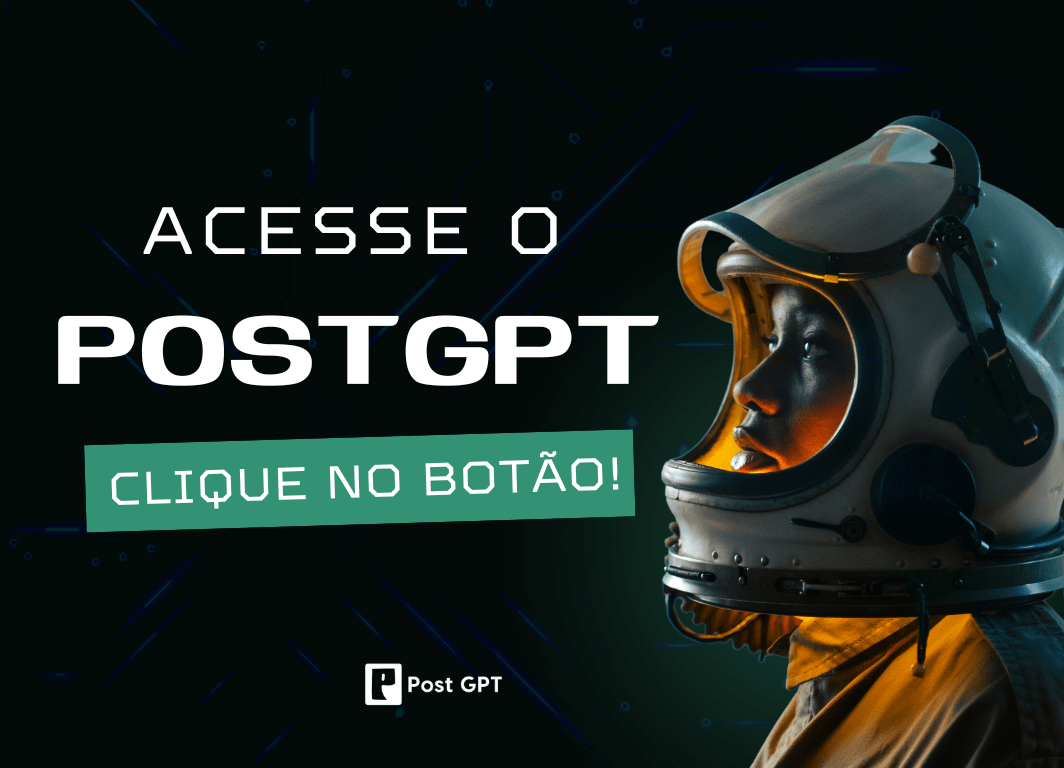
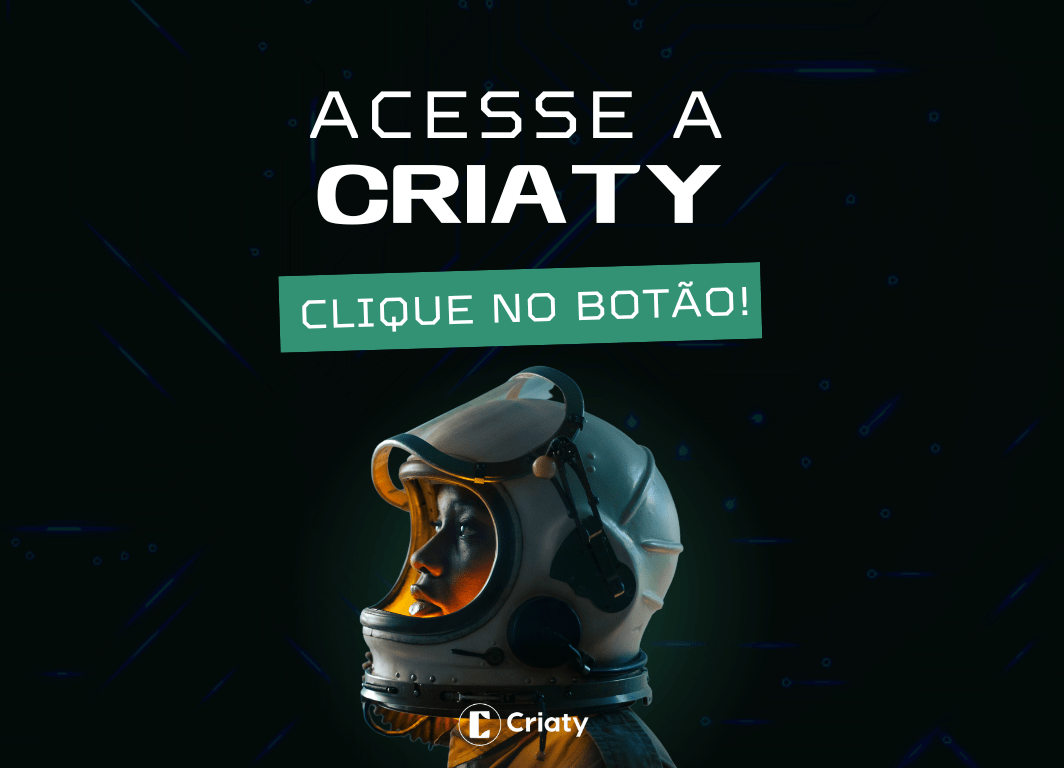
Change name to Criaty

diff --git a/apps/app/index.html b/apps/app/index.html
@@ -3,7 +3,7 @@
   <head>
     <meta charset="utf-8" />
     <title>
-      PostGPT | Um assistente para você criar conteúdos criativos em poucos
+      Criaty | Uma assistente para você criar conteúdos criativos em poucos
       segundos para o seu Instagram.
     </title>
     <base href="/" />
@@ -12,7 +12,7 @@
     <link
       rel="icon"
       type="image/x-icon"
-      href="/postgpt-profile-gray-white.svg"
+      href="/criaty-profile-white-black.svg"
     />
     <link rel="preconnect" href="https://fonts.googleapis.com" />
     <link rel="preconnect" href="https://fonts.gstatic.com" crossorigin />

diff --git a/apps/site/index.html b/apps/site/index.html
@@ -3,7 +3,7 @@
   <head>
     <meta charset="utf-8" />
     <title>
-      PostGPT | Um assistente para você criar conteúdos criativos em poucos
+      Criaty | Uma assistente para você criar conteúdos criativos em poucos
       segundos para o seu Instagram.
     </title>
     <base href="/" />
@@ -12,7 +12,7 @@
     <link
       rel="icon"
       type="image/x-icon"
-      href="/postgpt-profile-gray-white.svg"
+      href="/criaty-profile-white-black.svg"
     />
     <link rel="preconnect" href="https://fonts.googleapis.com" />
     <link rel="preconnect" href="https://fonts.gstatic.com" crossorigin />
